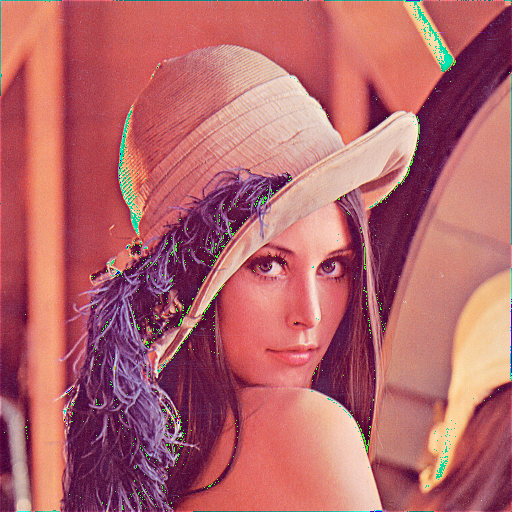
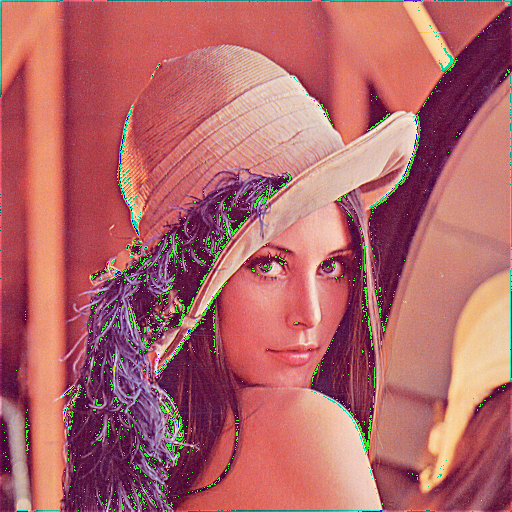
Correct gaussian kernel

diff --git a/Filters/ass1.py b/Filters/ass1.py
@@ -32,7 +32,7 @@ def main():
     cv.destroyAllWindows()
     
     # get user input to try different kernel sizes
-    filterSize = int(input('Enter kernel size: (preferably odd value) '))
+    filterSize = int(input('Enter kernel size: (odd value) '))
     
     # add padding to the input images to preserve size
     sidePadding = (filterSize - 1) // 2
@@ -68,16 +68,16 @@ def getMeanKernel(size):
     return kernel
 
 
-def getGaussianKernel(size, sigma=1):
+def getGaussianKernel(size, sigma=11):
     s = 2 * sigma**2
     denom = 1 / (np.pi * s)
     kernel = np.full((size, size), denom)
+
+    x, y = np.mgrid[-(size//2): size//2+1, -(size//2): size//2+1]
+    kernel *= np.exp(-(x**2 + y**2) / s)
     
-    x = np.arange(-(size//2), size//2+1)
-    y = np.arange(-(size//2), size//2+1)
-    xx, yy = np.meshgrid(y, x)
+    kernel /= np.abs(kernel).sum()
     
-    kernel *= np.exp(-(xx**2 + yy**2) / s)
     return kernel
 
 
@@ -85,7 +85,7 @@ def getSharpenKernel(size):
     alpha = np.zeros((size, size))
     alpha[size//2, size//2] = 2
     
-    meanFilter = getGaussianKernel(size)
+    meanFilter = getMeanKernel(size)
     
     kernel = alpha -  meanFilter
     return kernel
